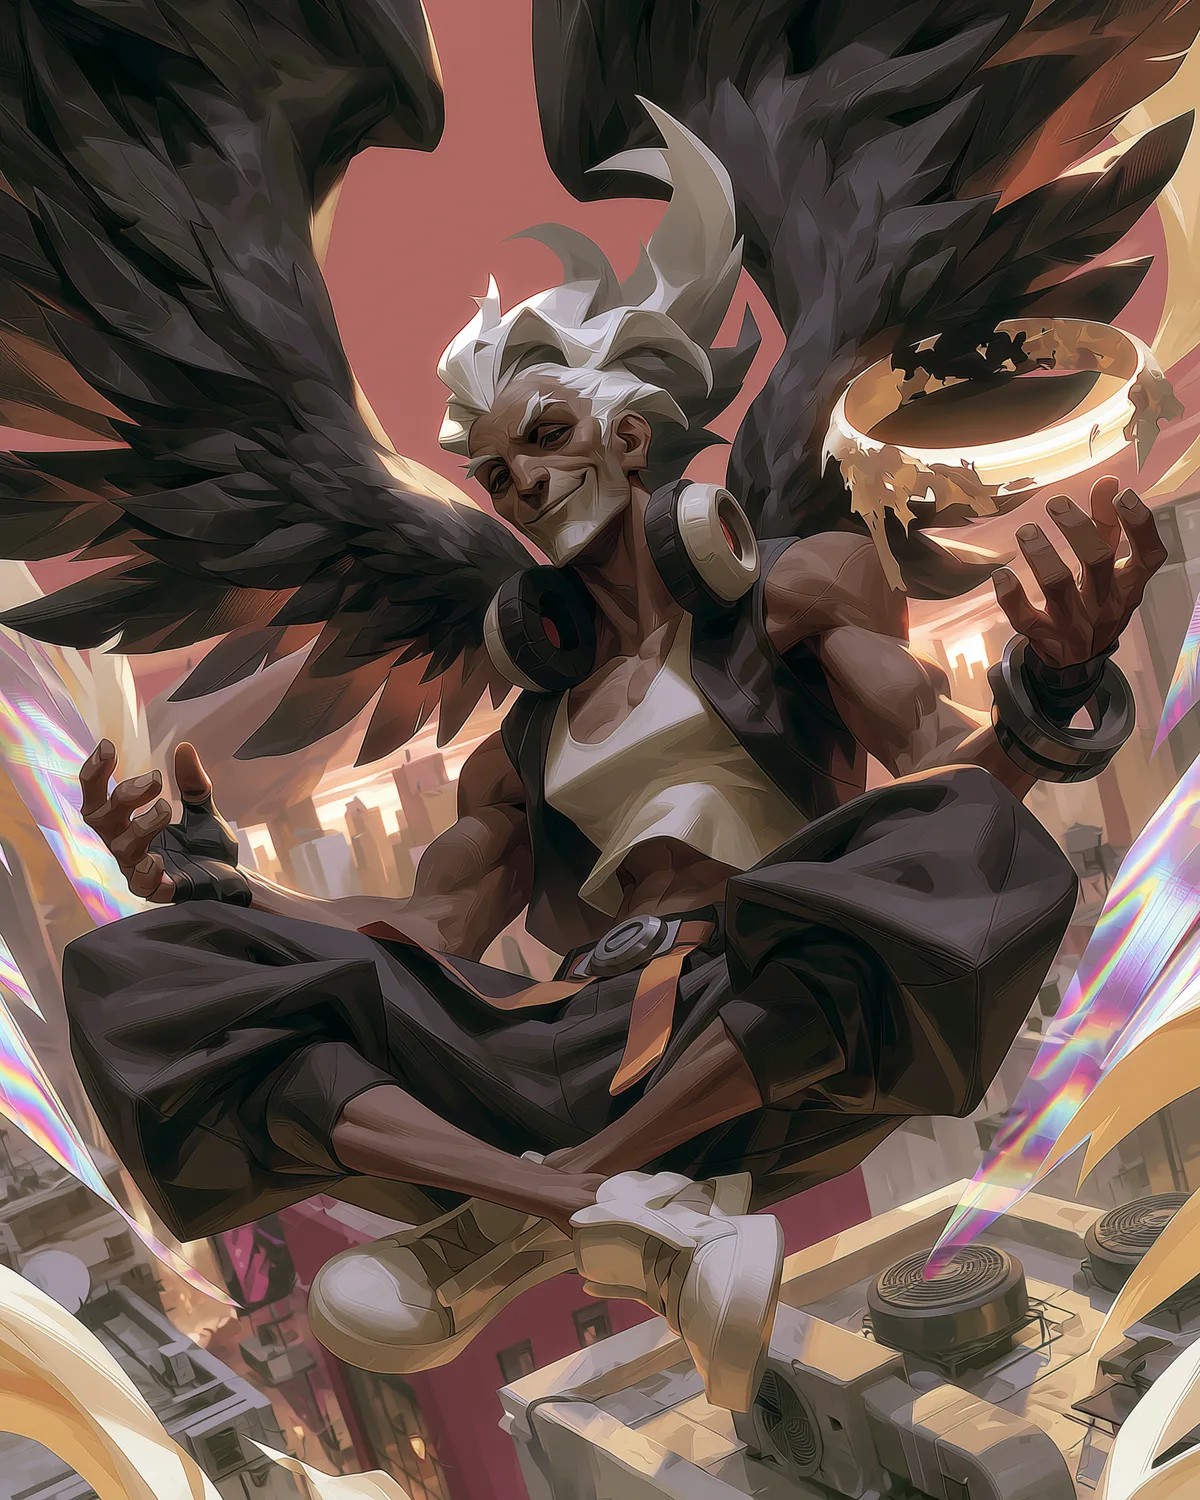
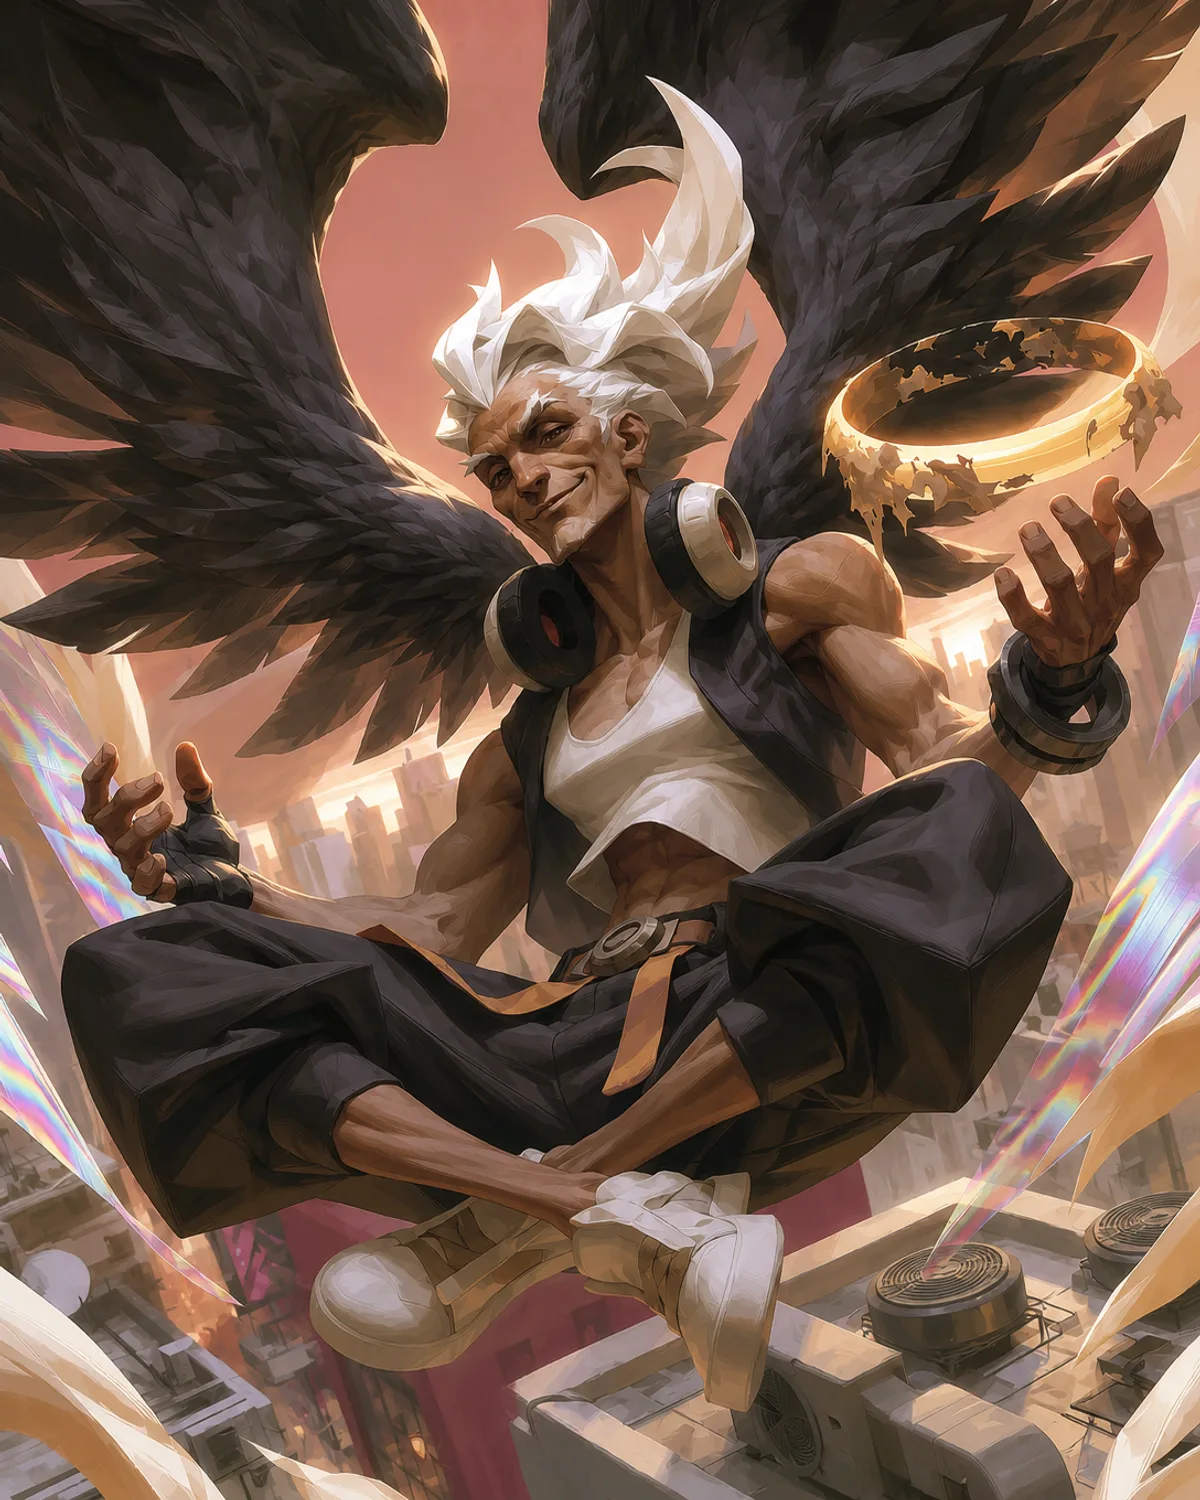
feat(collection): Full Art tirées affichées à part, visibles seulement si possédées
- profil : la grille itère sur des entrées — chaque carte de base
  (toujours affichée, grisée si absente), suivie de sa Full Art
  UNIQUEMENT si elle a été tirée (badge irisé « Full Art », ×n pour les
  doublons, lien vers /card/<id>?v=fullart) ; revente du surplus
  étendue aux Full Art possédées (surplusCount / sellAll / sellableViews)
- page carte : le toggle « Full Art · Auréole » n'apparaît que si la
  version Full Art est dans la collection (lecture localStorage au
  montage) ; l'effet ré-applique le choix quand la collection charge ;
  variantes alt full-art retirées (réservées au chase possédé)
- art : réillustration de Moras et Morna (sources mises à jour,
  renormalisées 1200×1500) ; Moras étant Légendaire, sa Full Art
  prismatique est disponible d'office

Vérifié en preview : Moras montre base ×2 + Full Art ×1 (badge) ;
Koren (Full Art non tirée) n'a pas de cellule ni de toggle Full Art.

diff --git a/src/routes/profil/+page.svelte b/src/routes/profil/+page.svelte
@@ -5,7 +5,7 @@
 	import logo from '$lib/assets/logo.svg';
 	import { cards, getCard } from '$lib/cards';
 	import { charter } from '$lib/charter';
-	import { loadCollection, saveCollection, collectionStats } from '$lib/gacha';
+	import { loadCollection, saveCollection, collectionStats, fullArtView } from '$lib/gacha';
 	import { session, initSession, signIn, signOut, isValidEmail } from '$lib/account.svelte';
 	import {
 		eco,
@@ -68,6 +68,38 @@
 			)
 	);
 
+	/** Entrées de la grille : chaque carte de base, suivie de sa Full Art
+	 *  UNIQUEMENT si elle a été tirée. Les doublons gardent l'affichage ×n. */
+	interface ColEntry {
+		key: string;
+		id: string; // clé dans la collection (base ou <id>--fullart)
+		view: CardData;
+		fullArt: boolean;
+		base: CardData;
+	}
+	const collectionEntries = $derived<ColEntry[]>(
+		pool.flatMap((c) => {
+			const out: ColEntry[] = [{ key: c.id, id: c.id, view: c, fullArt: false, base: c }];
+			if ((collection[`${c.id}--fullart`] ?? 0) > 0)
+				out.push({
+					key: `${c.id}--fullart`,
+					id: `${c.id}--fullart`,
+					view: fullArtView(c),
+					fullArt: true,
+					base: c
+				});
+			return out;
+		})
+	);
+
+	/** Toutes les vues « vendables » : cartes de base + Full Art possédées. */
+	const sellableViews = $derived<CardData[]>([
+		...cards,
+		...cards
+			.filter((c) => (collection[`${c.id}--fullart`] ?? 0) > 0)
+			.map((c) => fullArtView(c))
+	]);
+
 	const deckRows = $derived(
 		cur
 			? Object.entries(cur.cards)
@@ -127,9 +159,9 @@
 	function surplusOf(c: CardData): number {
 		return Math.max(0, (collection[c.id] ?? 0) - SELL_KEEP);
 	}
-	const surplusCount = $derived(cards.reduce((s, c) => s + surplusOf(c), 0));
+	const surplusCount = $derived(sellableViews.reduce((s, c) => s + surplusOf(c), 0));
 	const surplusValue = $derived(
-		cards.reduce((s, c) => s + surplusOf(c) * (SELL_VALUE[c.rarity] ?? 5), 0)
+		sellableViews.reduce((s, c) => s + surplusOf(c) * (SELL_VALUE[c.rarity] ?? 5), 0)
 	);
 	function sellSurplus(c: CardData) {
 		const n = surplusOf(c);
@@ -142,7 +174,7 @@
 	function sellAllSurplus() {
 		let total = 0;
 		let count = 0;
-		for (const c of cards) {
+		for (const c of sellableViews) {
 			const n = surplusOf(c);
 			if (n <= 0) continue;
 			collection[c.id] = SELL_KEEP;
@@ -339,24 +371,30 @@
 	{/if}
 
 	<div class="colgrid">
-		{#each pool as c (c.id)}
-			{@const owned = collection[c.id] ?? 0}
-			<div class="colcell" class:missing={owned === 0}>
-				<a href="/card/{c.id}" aria-label={c.name}>
-					<Card card={c} interactive={owned > 0} />
+		{#each collectionEntries as e (e.key)}
+			{@const owned = collection[e.id] ?? 0}
+			<div class="colcell" class:missing={owned === 0} class:fa={e.fullArt}>
+				<a
+					href="/card/{e.base.id}{e.fullArt ? '?v=fullart' : ''}"
+					aria-label="{e.base.name}{e.fullArt ? ' — Full Art' : ''}"
+				>
+					<Card card={e.view} fullArt={e.fullArt} interactive={owned > 0} />
 				</a>
+				{#if e.fullArt}
+					<span class="fabadge">Full Art</span>
+				{/if}
 				{#if owned > 0}
 					<span class="owncount">×{owned}</span>
 				{:else}
 					<span class="lock">Non possédée</span>
 				{/if}
-				{#if surplusOf(c) > 0}
+				{#if surplusOf(e.view) > 0}
 					<button
 						class="sellbtn"
 						title="Revendre les copies au-delà de 3"
-						onclick={() => sellSurplus(c)}
+						onclick={() => sellSurplus(e.view)}
 					>
-						Revendre ×{surplusOf(c)} · +{surplusOf(c) * (SELL_VALUE[c.rarity] ?? 5)}
+						Revendre ×{surplusOf(e.view)} · +{surplusOf(e.view) * (SELL_VALUE[e.view.rarity] ?? 5)}
 						<i class="shard" aria-hidden="true"></i>
 					</button>
 				{/if}
@@ -1121,6 +1159,20 @@
 	.colcell.missing {
 		filter: grayscale(0.9) brightness(0.55);
 		opacity: 0.75;
+	}
+	.fabadge {
+		position: absolute;
+		top: -0.5rem;
+		left: 0.4rem;
+		z-index: 5;
+		padding: 0.15rem 0.6rem;
+		font-size: 0.66rem;
+		font-weight: 700;
+		letter-spacing: 0.05em;
+		color: #171b10;
+		background: linear-gradient(90deg, #e8a7b8, #e8d3a7, #a7e8c6, #a7c6e8, #c9a7e8);
+		border-radius: 999px;
+		box-shadow: 0 2px 8px rgba(0, 0, 0, 0.45);
 	}
 	.owncount {
 		position: absolute;

diff --git a/src/routes/card/[id]/+page.svelte b/src/routes/card/[id]/+page.svelte
@@ -1,14 +1,23 @@
 <script lang="ts">
+	import { onMount } from 'svelte';
 	import Card from '$lib/Card.svelte';
 	import FactionSigil from '$lib/FactionSigil.svelte';
 	import { charter } from '$lib/charter';
 	import { altView } from '$lib/cards';
+	import { loadCollection } from '$lib/gacha';
 	import type { CardData } from '$lib/types';
 
 	let { data } = $props();
 	const card = $derived(data.card);
 	const rarityDef = $derived(charter.rarities[card.rarity]);
 	const faction = $derived(charter.factions[card.faction]);
+
+	/* la Full Art n'est proposée que si le joueur l'a tirée */
+	let collection = $state<Record<string, number>>({});
+	onMount(() => {
+		collection = loadCollection();
+	});
+	const ownsFullArt = $derived((collection[`${card.id}--fullart`] ?? 0) > 0);
 
 	/** Choix de l'artwork : base ou versions alternatives (toujours foil). */
 	interface ArtOption {
@@ -23,34 +32,22 @@
 		view.gene.foilPreset = 'prism';
 		return view;
 	}
-	const hasFullArt = $derived(
-		card.fullArt || card.rarity === 'prism' || card.rarity === 'legendary' || card.rarity === 'epic'
-	);
 	const artOptions: ArtOption[] = $derived([
 		{ key: 'base', label: 'Standard', view: card },
-		...(hasFullArt ? [{ key: 'fullart', label: 'Full Art · Auréole', view: fullArtView(card) }] : []),
+		...(ownsFullArt ? [{ key: 'fullart', label: 'Full Art · Auréole', view: fullArtView(card) }] : []),
 		...(card.alts ?? []).flatMap((art, i) => [
 			{
 				key: `alt${i + 2}`,
 				label: `Alt ${i + 1}`,
 				view: altView(card, art, i)
-			},
-			// chaque alt éligible a aussi sa version full art — le chase du chase
-			...(hasFullArt
-				? [
-						{
-							key: `alt${i + 2}full`,
-							label: `Alt ${i + 1} · Full Art`,
-							view: fullArtView(altView(card, art, i))
-						}
-					]
-				: [])
+			}
 		])
 	]);
 
 	let artSel = $state('base');
 	$effect(() => {
 		card.id; // reset à chaque navigation de carte
+		artOptions; // ré-applique quand la Full Art devient disponible (collection chargée)
 		const v = new URLSearchParams(location.search).get('v');
 		artSel = v && artOptions.some((o) => o.key === v) ? v : 'base';
 	});

diff --git a/pipeline/reforge-one.ts b/pipeline/reforge-one.ts
@@ -1,0 +1,17 @@
+import sharp from 'sharp';
+
+/** Renormalise une source en portrait 1200×1500 WebP (crop attention). */
+async function normalize(input: string, out: string) {
+	await sharp(input)
+		.resize(1200, 1500, { fit: 'cover', position: sharp.strategy.attention })
+		.webp({ quality: 82 })
+		.toFile(out);
+	console.log(`${out} ←`, input);
+}
+
+const jobs: [string, string][] = [
+	['Expelled/tests/set 01 midjourney raw illustration/moras.png', 'static/art/moras.webp'],
+	['Expelled/tests/set 01 midjourney raw illustration/Morna (2).png', 'static/art/morna.webp']
+];
+for (const [i, o] of jobs) await normalize(i, o);
+console.log('OK');